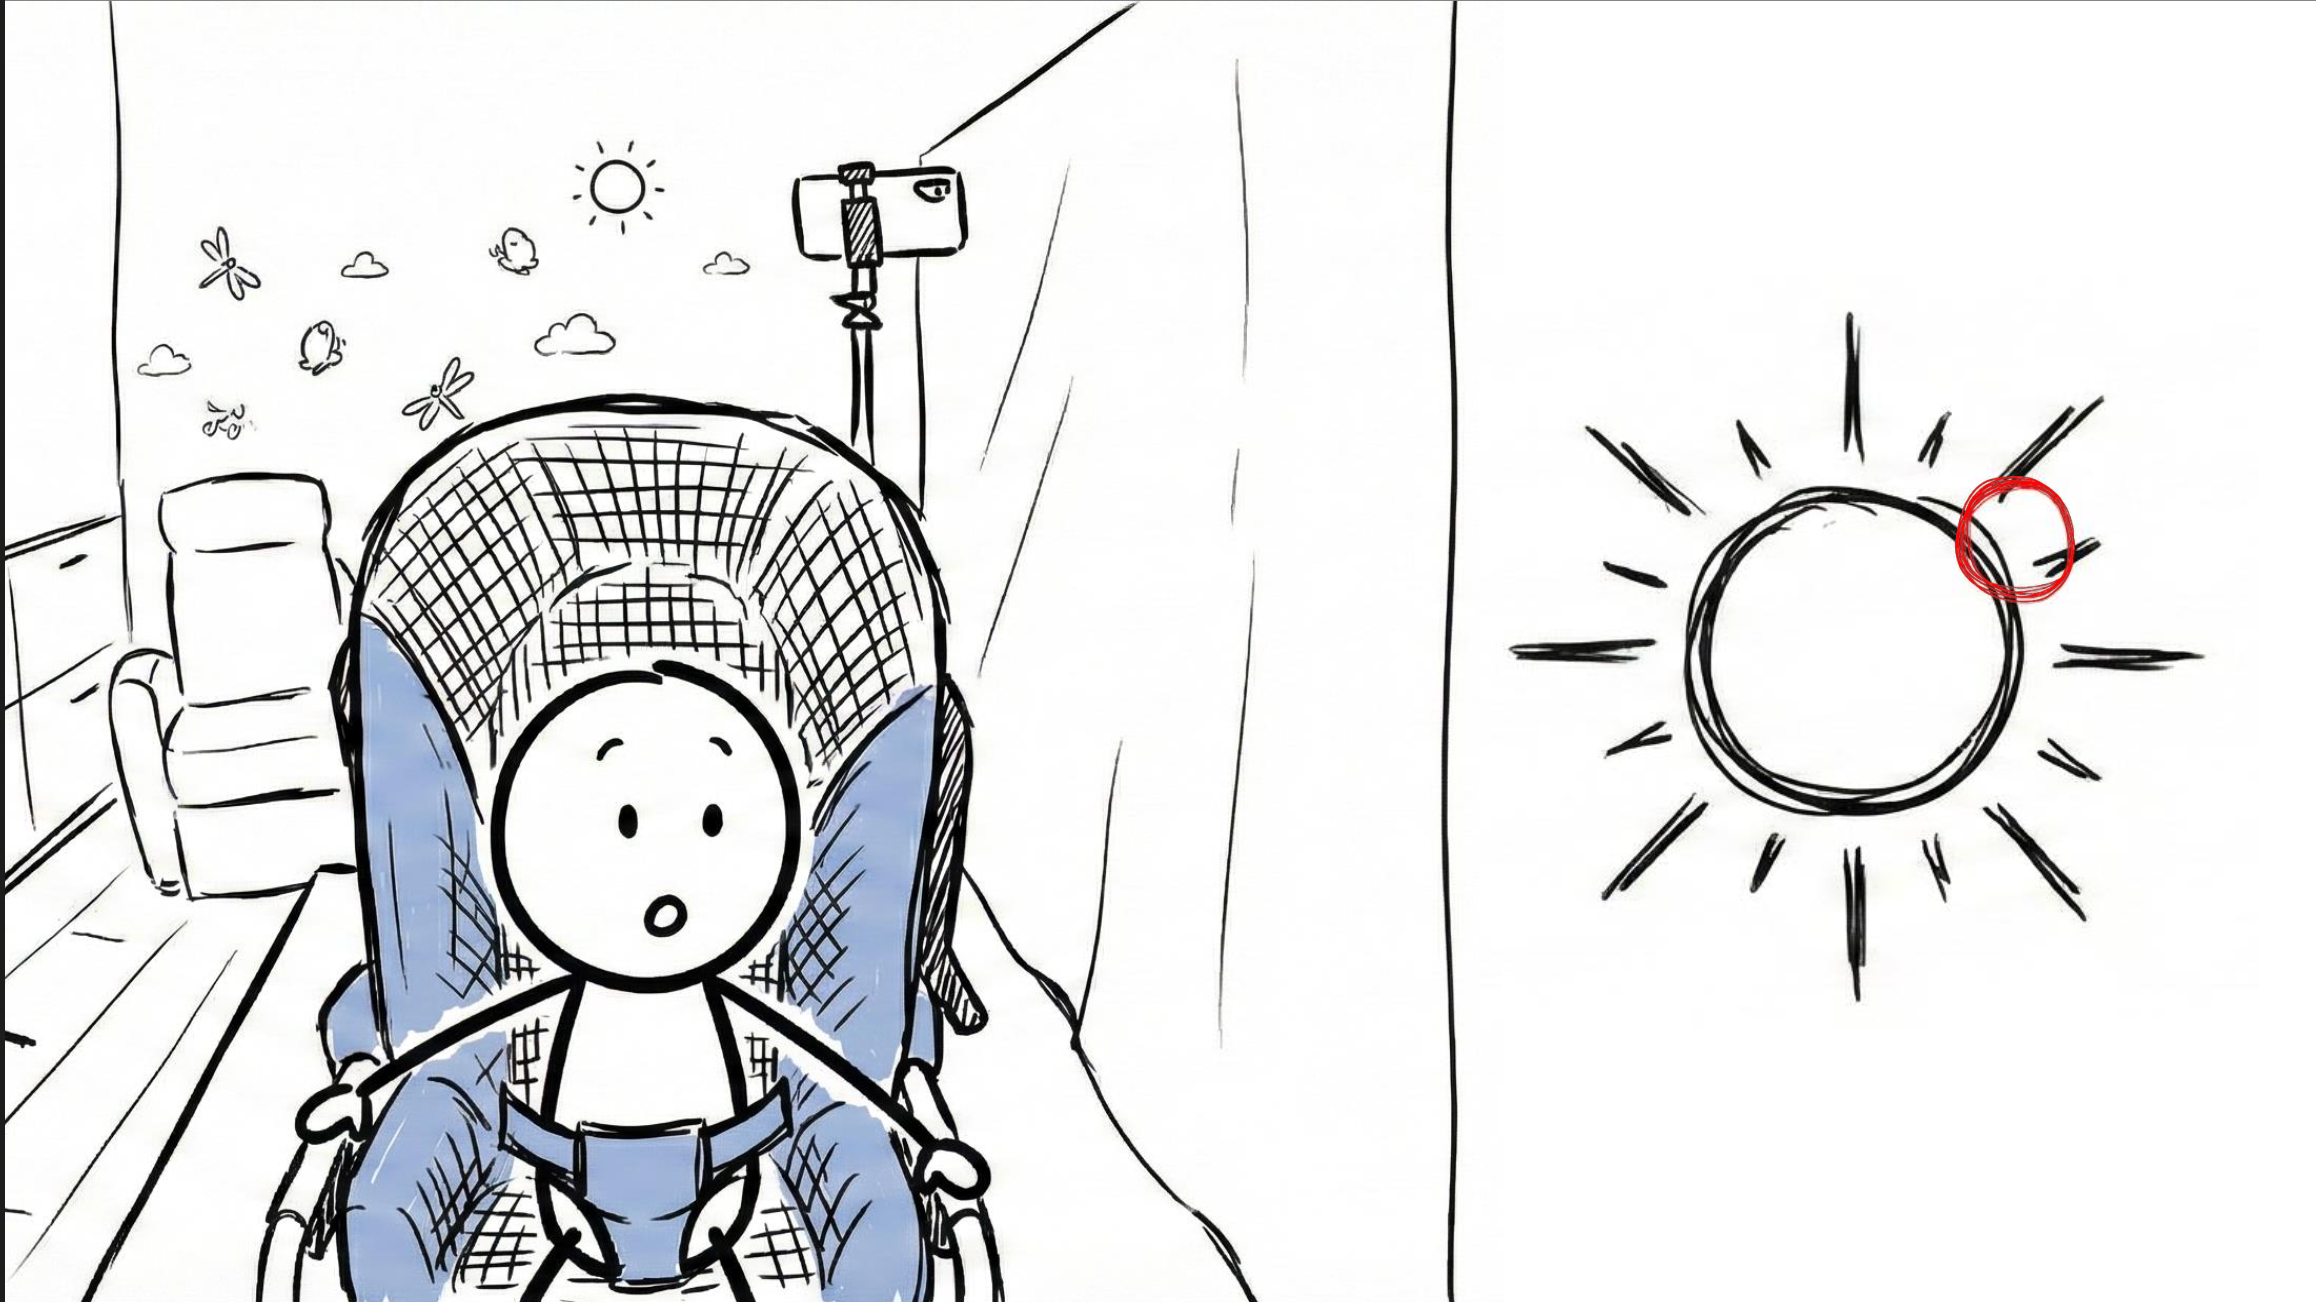
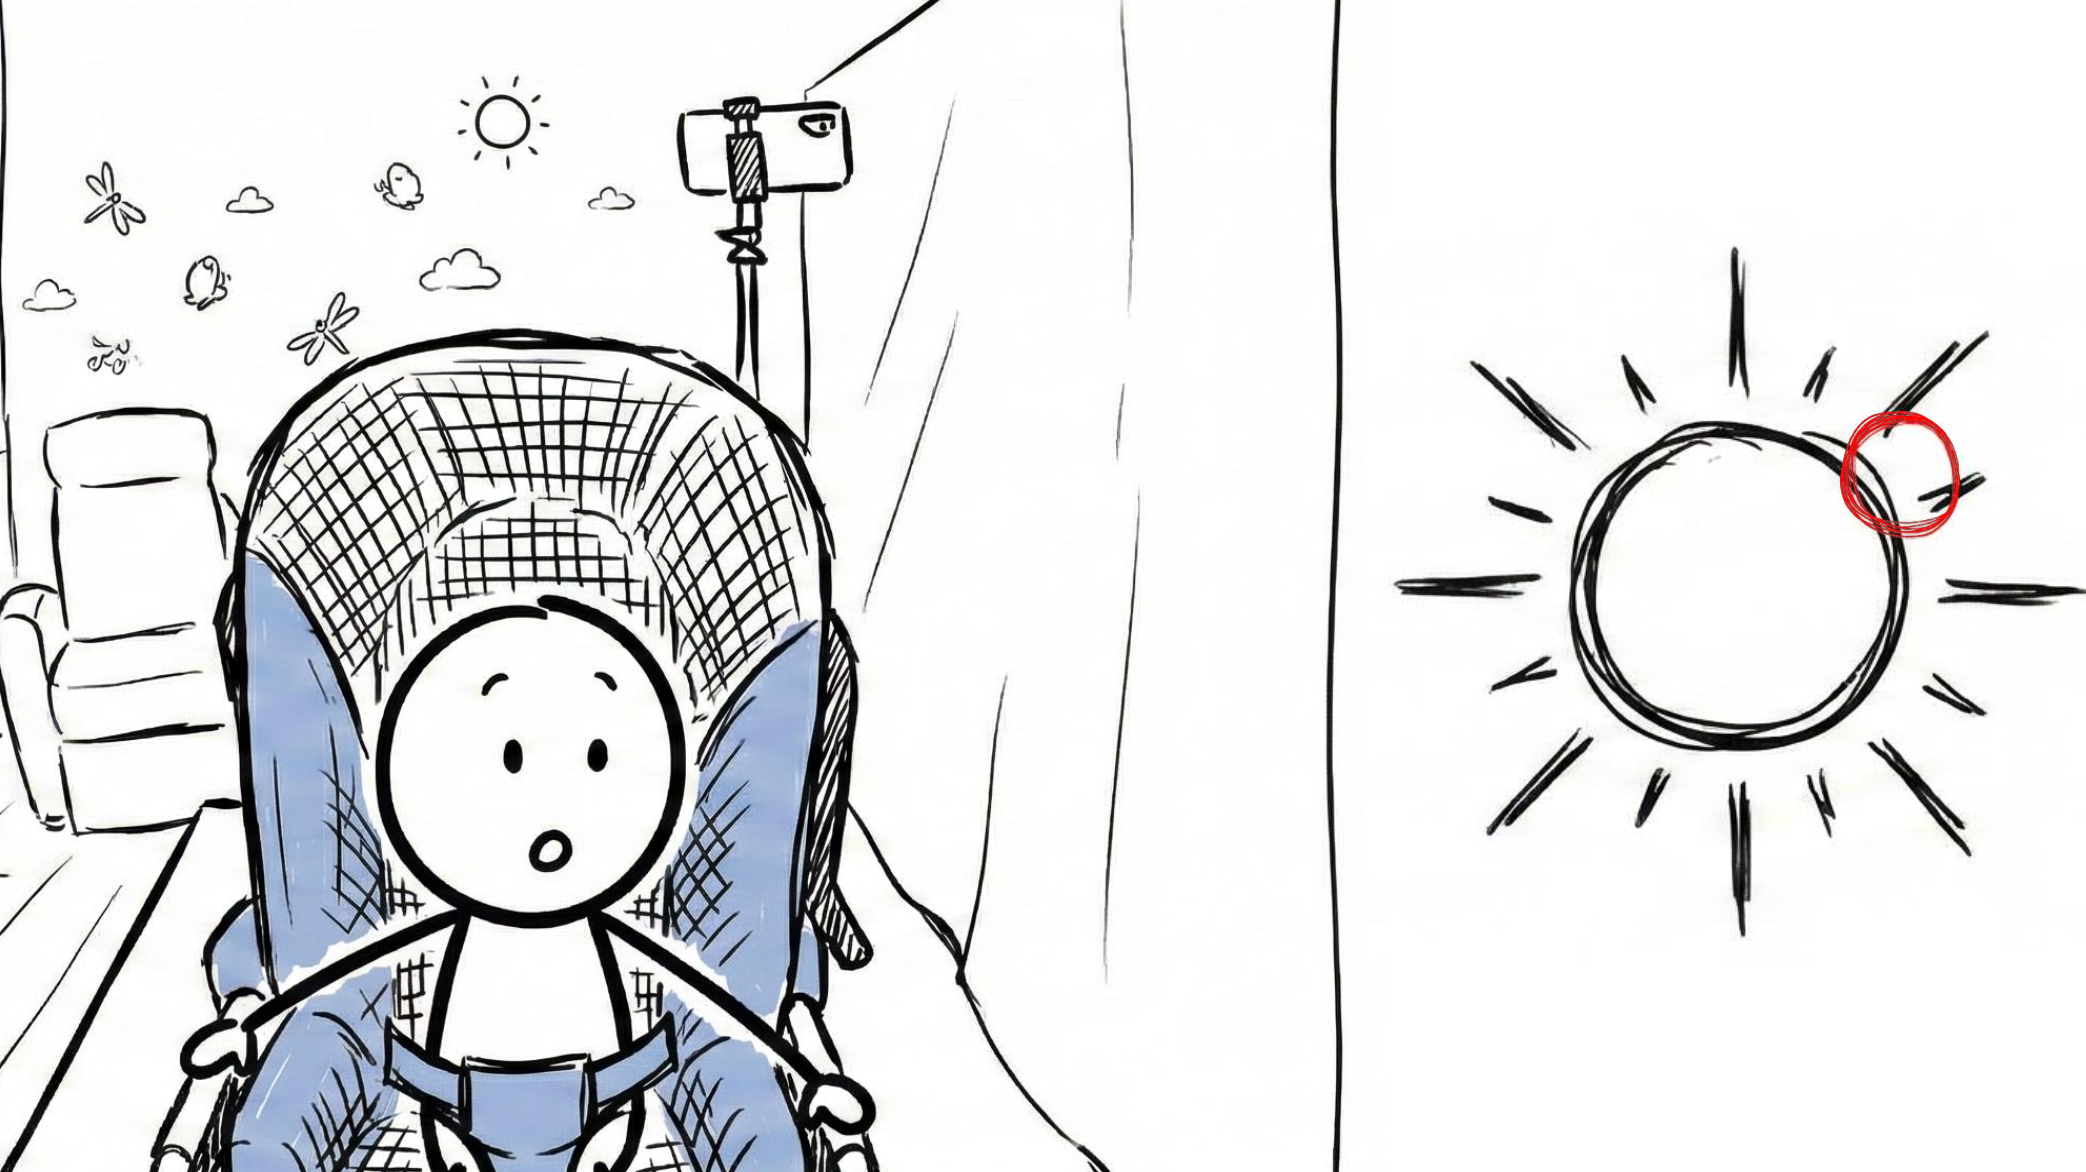
Slight zoom on GECO image, fix hackathon link

diff --git a/index.html b/index.html
@@ -29,7 +29,7 @@ title: Giulia Benintendi
     <span class="news-date">Sep 2025.</span> Started Double Degree in Robotic Systems at Sorbonne University, Paris.
   </li>
   <li class="news-item">
-    <span class="news-date">May 2025.</span> <strong>1st Place</strong> at the <a href="https://www.issapulire.com/it/stampa/news/vince-la-seconda-edizione-dell'hackathon-issa-pulire-il-team-i-team-secondo-classificato-il-team-idrobase-e-issa.html" target="_blank">ISSA PULIRE AI-for-Cleaning Hackathon 2025</a> with AI-Orchestrator.
+    <span class="news-date">May 2025.</span> <strong>1st Place</strong> at the <a href="https://www.issapulire.com/it/eventi/hackathon.html" target="_blank">ISSA PULIRE AI-for-Cleaning Hackathon 2025</a> with AI-Orchestrator.
   </li>
   <li class="news-item">
     <span class="news-date">Mar 2025.</span> Joined the Mechanical and Thermal Measurements group at University of Brescia for research on gaze trajectory analysis in preterm infants (<a href="https://vippstar.eu" target="_blank">VIPPSTAR</a> project).
@@ -74,12 +74,12 @@ title: Giulia Benintendi
   </div>
   <div class="project-body">
     <h3>AI-Orchestrator</h3>
-    <p class="project-org"><a href="https://www.issapulire.com/it/stampa/news/vince-la-seconda-edizione-dell'hackathon-issa-pulire-il-team-i-team-secondo-classificato-il-team-idrobase-e-issa.html" target="_blank">ISSA PULIRE Hackathon</a> &middot; 1st Place</p>
+    <p class="project-org"><a href="https://www.issapulire.com/it/eventi/hackathon.html" target="_blank">ISSA PULIRE Hackathon</a> &middot; 1st Place</p>
     <p class="project-date">May 2025</p>
     <p>Real-time platform using computer vision, demand forecasting and automatic task allocation to optimize cleaning operations in stadium-scale environments.</p>
     <div class="project-links">
       <a href="https://ai-orchestrator-lemon.vercel.app" target="_blank">Demo</a>
-      <a href="https://www.issapulire.com/it/stampa/news/vince-la-seconda-edizione-dell'hackathon-issa-pulire-il-team-i-team-secondo-classificato-il-team-idrobase-e-issa.html" target="_blank">Press</a>
+      <a href="https://www.issapulire.com/it/eventi/hackathon.html" target="_blank">Press</a>
     </div>
   </div>
 </div>

diff --git a/projects.html b/projects.html
@@ -39,12 +39,12 @@ permalink: /projects/
   </div>
   <div class="project-body">
     <h3>AI-Orchestrator</h3>
-    <p class="project-org"><a href="https://www.issapulire.com/it/stampa/news/vince-la-seconda-edizione-dell'hackathon-issa-pulire-il-team-i-team-secondo-classificato-il-team-idrobase-e-issa.html" target="_blank">ISSA PULIRE Hackathon</a> &middot; 1st Place</p>
+    <p class="project-org"><a href="https://www.issapulire.com/it/eventi/hackathon.html" target="_blank">ISSA PULIRE Hackathon</a> &middot; 1st Place</p>
     <p class="project-date">May 2025</p>
     <p>Real-time platform using computer vision, demand forecasting and automatic task allocation to optimize cleaning operations in stadium-scale environments.</p>
     <div class="project-links">
       <a href="https://ai-orchestrator-lemon.vercel.app" target="_blank">Demo</a>
-      <a href="https://www.issapulire.com/it/stampa/news/vince-la-seconda-edizione-dell'hackathon-issa-pulire-il-team-i-team-secondo-classificato-il-team-idrobase-e-issa.html" target="_blank">Press</a>
+      <a href="https://www.issapulire.com/it/eventi/hackathon.html" target="_blank">Press</a>
     </div>
   </div>
 </div>
